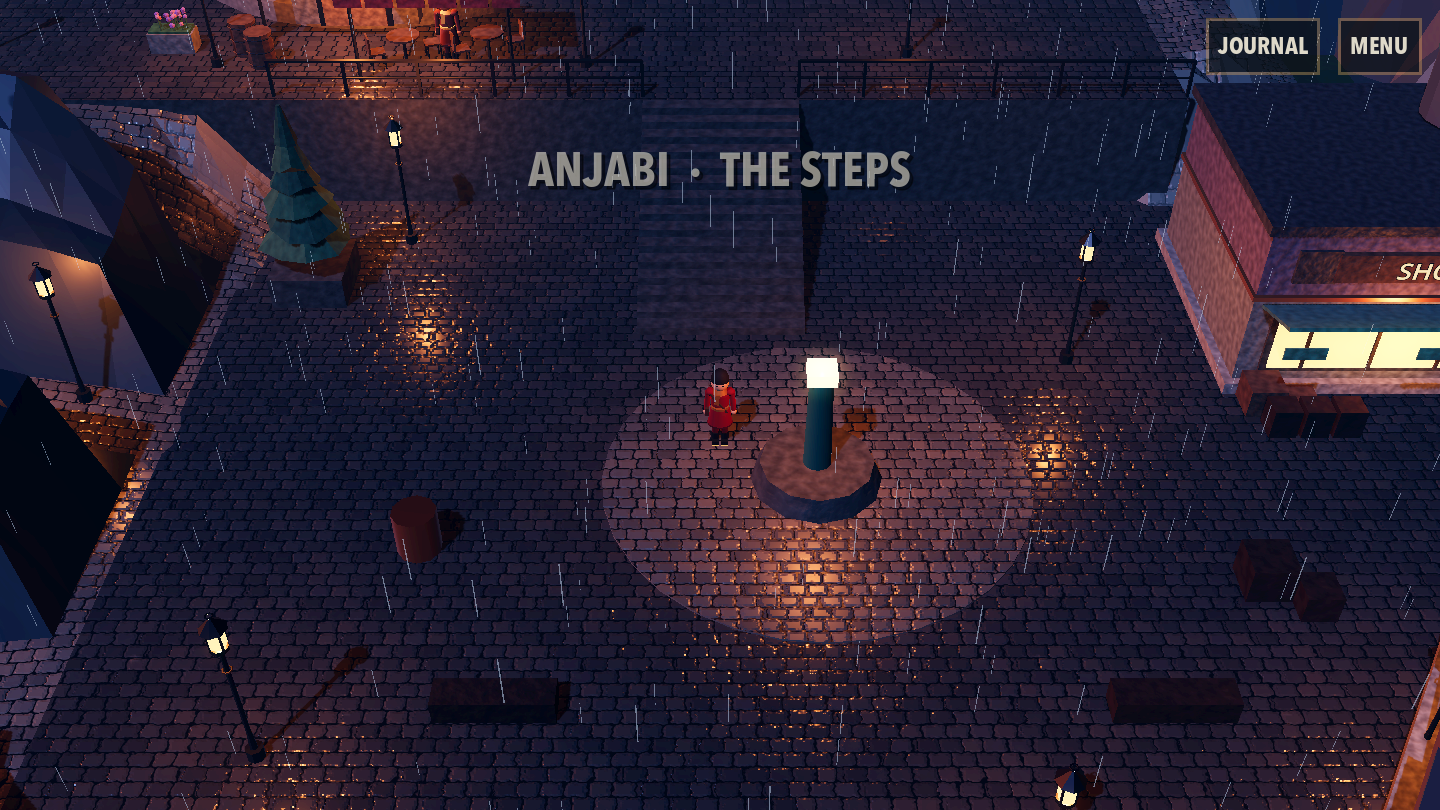
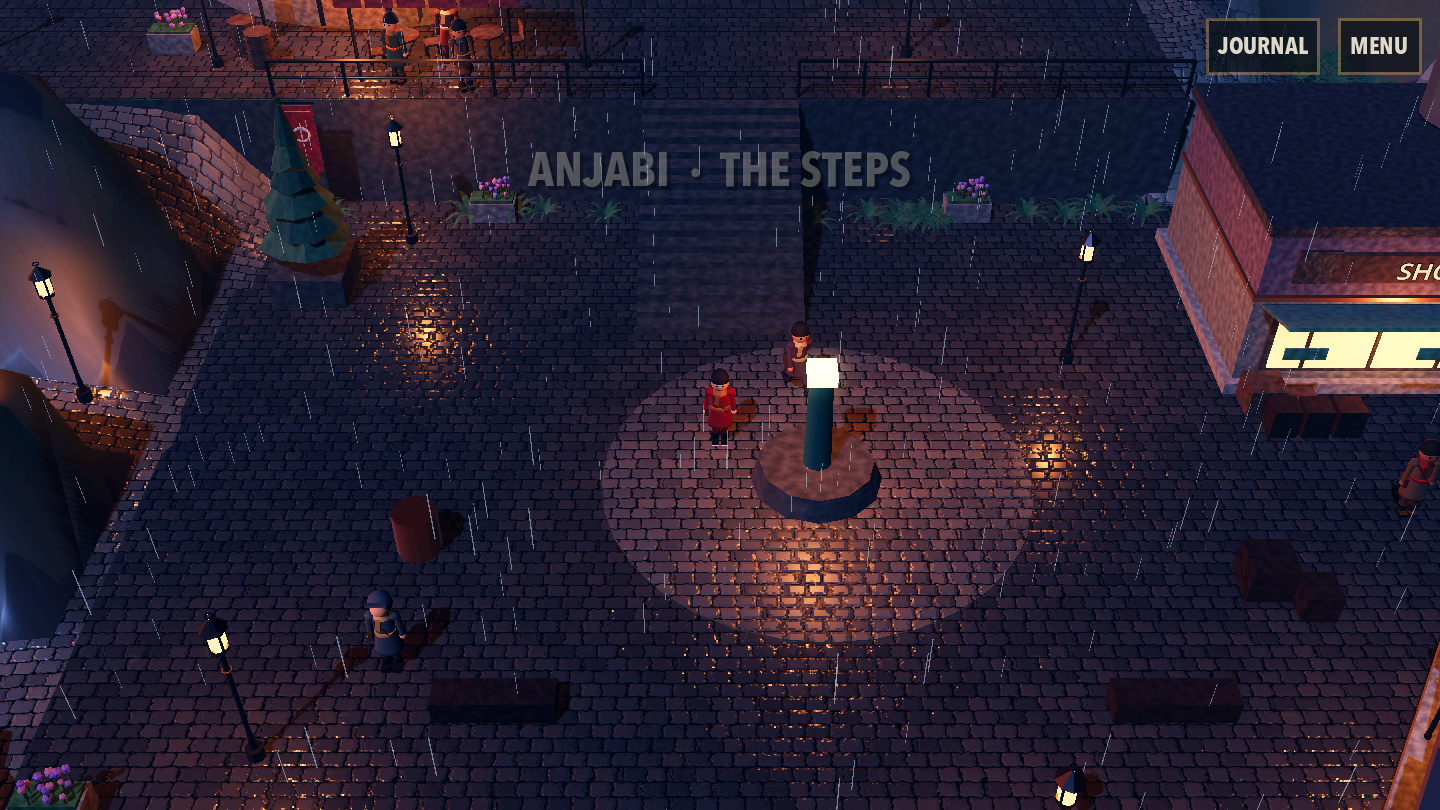
Aesthetic pass 3: townsfolk, fern scatter, clutter, rock and sea shading, boardwalk, lattice pylons

diff --git a/PROJECT_LOG.md b/PROJECT_LOG.md
@@ -406,3 +406,20 @@ rails), `gondola` (tram cabin), `pine`, `fern`.
   0.1–3 m into the ground and the portal was offset 2.6 m).
 - Tests 96/96.
 
+### Pass 3 — set dressing, life, terrain and water shading
+- `game/actors/townsfolk.gd` (`Townsfolk`): non-solid background inhabitants that walk a
+  loop of points and pause, or stand. Seven in the town (Steps plaza, café, docks, pods).
+- `MapBuilder3D.scatter()` batches one model into a MultiMesh (one draw); used for ferns:
+  hundreds along town grass edges, the terrace foot and the mine yard edges.
+- Clutter: planters and barrels at every Quonset porch, crates and barrels on the docks,
+  planters, banners and crates on the Steps, barrels and crates in the mine yard; the
+  mine portal's lanterns now cast light.
+- Town terrain: smooth normals (no faceted cliffs); steep faces in `wet_ground` get rock
+  strata, crevices and lichen, matte and warm grey; gentler per-cell colour so sand and
+  grass show no checkerboard; docks are drawn as a timber boardwalk (shader plank mode,
+  vertex alpha 0.5).
+- `art/shaders/sea.gdshader`: drifting swell from three noise layers, glossy highlights,
+  whitecaps; used for the sea, the washout water and the mist plane.
+- Tram pylons rebuilt as slender four-leg lattice towers.
+- Tests 96/96.
+
